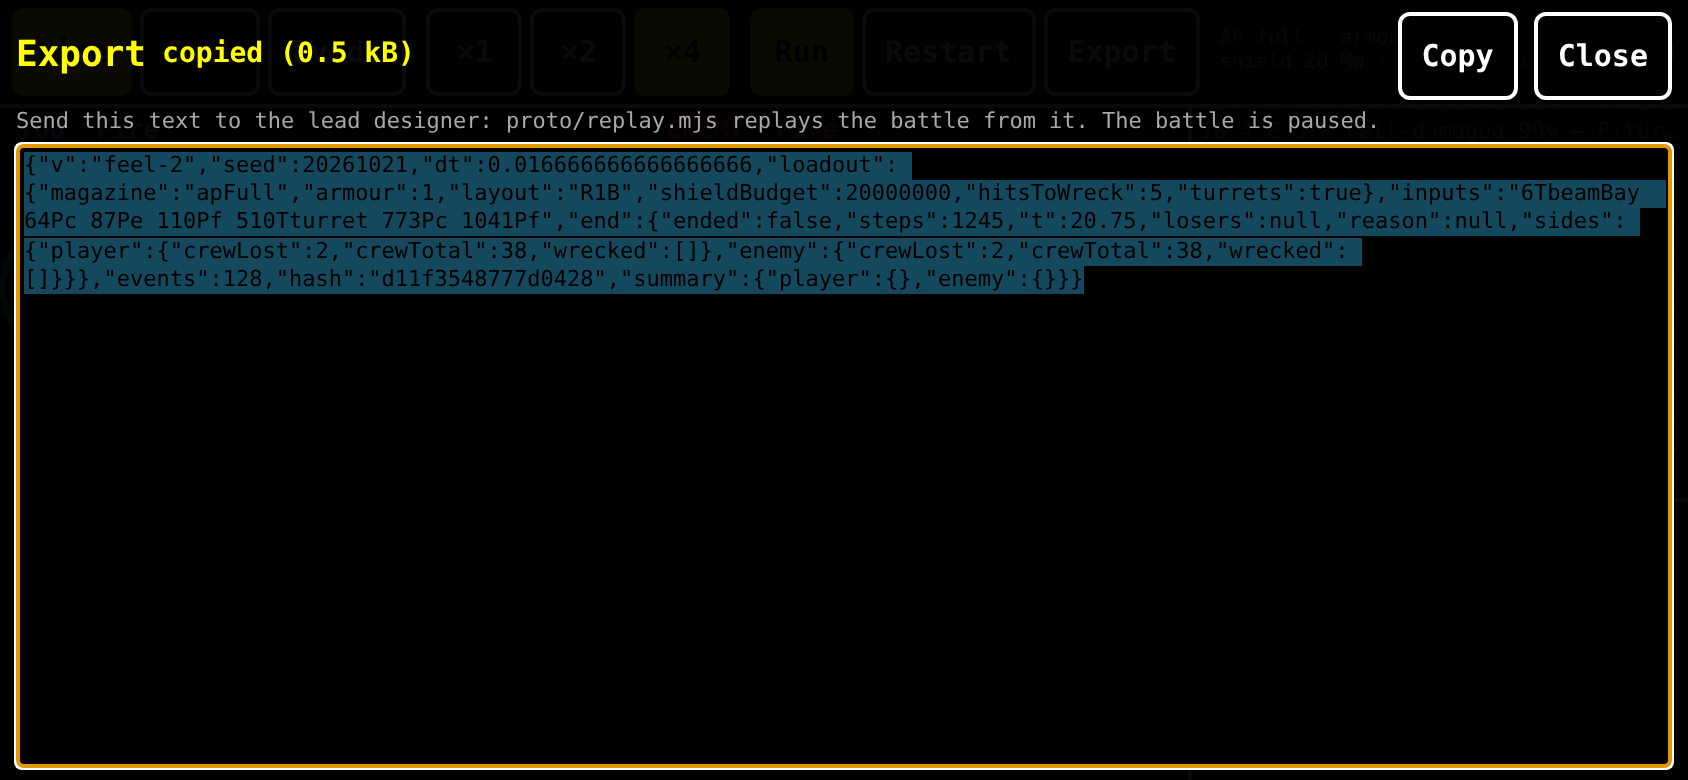
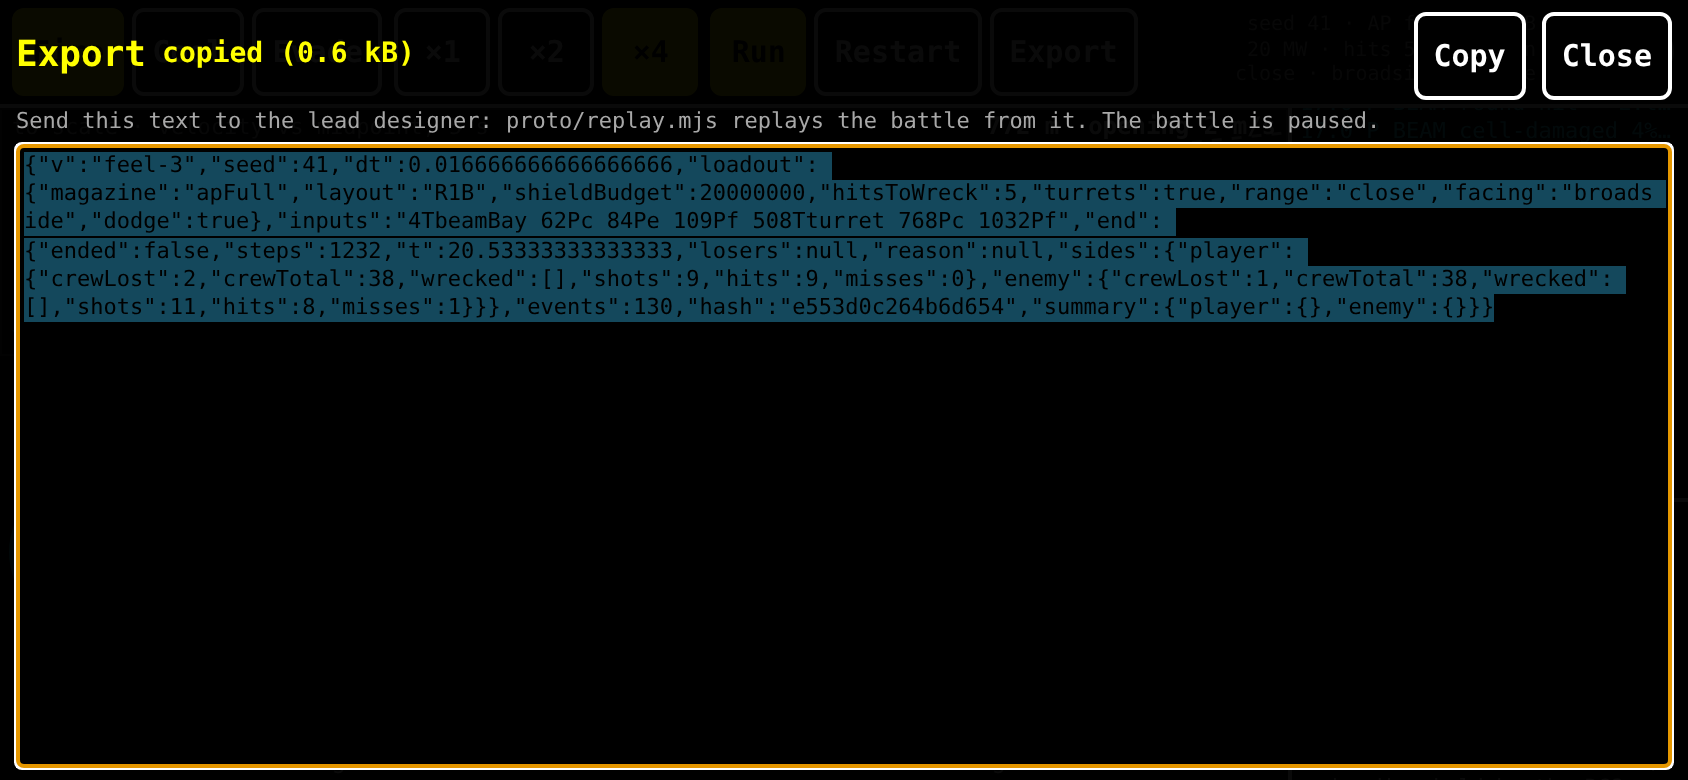
Export, replay and smoke-test prototype v2; rewrite its README
DESIGN.md 13j.2 (#237): an export must name the seed and the player's
orders so replay.mjs rebuilds the same battle; the smoke test now checks
the seed on the panel, in the battle and in both exports, seed + 1 after
Restart, and that both exports replay MATCH from a Chromium page.

Claude-Session: https://claude.ai/code/session_013XH7jici9kFqQf6EJYqURu

Changed region(s): [[0.0, 0.1846, 0.9858, 0.4308], [0.8318, 0.0, 0.9858, 0.1231]]

diff --git a/proto/export.js b/proto/export.js
@@ -1,6 +1,7 @@
-// proto/export.js — the feel prototype's export (DESIGN.md 13h, #217, #224):
-// one compact JSON text of a battle (version, seed, loadout, the player's
-// inputs by step, the end, the event hash and a short per-room summary), so
+// proto/export.js — the feel prototype's export (DESIGN.md 13h, 13j, #217,
+// #224, #237): one compact JSON text of a battle (version, seed, loadout with
+// the player's standing orders, the player's inputs by step, the end, the
+// event hash and a short per-room summary), so
 // that proto/replay.mjs can rebuild the battle headless from seed, loadout
 // and inputs and check it ends the same. No DOM: the page (proto/proto.js)
 // and Node (proto/replay.mjs) both use it. The full event list is not
@@ -30,7 +31,7 @@ export function record(rec, events) {
     }
     rec.h1 = Math.imul(h1 ^ 10, 2654435761); rec.h2 = Math.imul(h2 ^ 10, 1597334677);
     rec.count++;
-    if (e.room === 'armour' || !(e.side in rec.rooms)) continue;
+    if (e.room === '-' || !(e.side in rec.rooms)) continue; // a miss names no room
     const r = rec.rooms[e.side][e.room] || (rec.rooms[e.side][e.room] = { hot: null, overheated: null, wrecked: null });
     if (e.type === 'hot' && r.hot === null) r.hot = e.t;
     if (e.type === 'overheated' && r.overheated === null) r.overheated = e.t;
@@ -46,9 +47,9 @@ export function eventHash(rec) {
   return (h2 >>> 0).toString(16).padStart(8, '0') + (h1 >>> 0).toString(16).padStart(8, '0');
 }
 
-/** Where the battle stands: its end if it ended, else the step it was exported at; crew lost and rooms wrecked per side. */
+/** Where the battle stands: its end if it ended, else the step it was exported at; crew lost, rooms wrecked, shots, hits and misses per side. */
 export function endOf(battle) {
-  const e = battle.ended, side = (s) => { const x = summary(s); return { crewLost: x.crewLost, crewTotal: x.crewTotal, wrecked: x.wrecked }; };
+  const e = battle.ended, side = (s) => { const x = summary(s); return { crewLost: x.crewLost, crewTotal: x.crewTotal, wrecked: x.wrecked, shots: x.shots, hits: x.hits, misses: x.misses }; };
   return {
     ended: !!e, steps: battle.steps, t: battle.t,
     losers: e ? e.losers : null, reason: e ? e.reason : null,

diff --git a/proto/README.md b/proto/README.md
@@ -1,10 +1,12 @@
-# Feel prototype (throwaway)
+# Feel prototype v2 (throwaway)
 
 A rough page to judge how a battle feels on the phone (`DESIGN.md` §13h,
-decisions #217, #223, #224): two reference ships R1 (§13f.2, at the mass
-pass's masses, #221) 900 m apart on the unchanged L3 kernel. It only reads
-and drives the kernel through its exported functions, adds no game number
-outside `js/data.js`, and **never counts as a Mission 0 result**.
+§13j; decisions #217, #224, #233, #237): two reference ships R1 (§13f.2)
+on the path model's kernel (§13i), flown by a stand-in autopilot from three
+standing orders (§8: range, facing, dodge), with rounds that hit or miss for
+physical reasons only. It only reads and drives the kernel through its
+exported functions, adds no game number outside `js/data.js`, and **never
+counts as a Mission 0 result**.
 
 ## Run it
 
@@ -23,148 +25,194 @@ the page elsewhere, copy `js/` beside `proto/` or rewrite that one prefix.
 
 ## Loadout panel
 
-Shown before each battle and from **Restart**; one loadout applies to
-**both ships alike**; the current loadout stays in the top-right corner
-during the battle. **Defaults** gives the battle without the panel (the
-same event hash for the same seed). The levers (#223's ladder: constants
-within their approved ranges, then layout and combinations of existing
-physics):
+Shown before each battle and from **Restart**; the current loadout stays in
+the top-right corner during the battle. **Defaults** resets every lever.
+
+The **fit** applies to both ships alike (#223's ladder: constants within
+their approved ranges, then layout and combinations of existing physics):
 
 - **Magazine**: HE full (default), AP full, HE half, AP quarter, by mass
   (fractions of `magazine.capacity`), loaded as whole rounds by the
   kernel's `loadMagazine`. A magazine explodes when a cell of it is
   wrecked, with the charge energy of its rounds, plus the warhead for HE.
-- **Bow armour**: none, 1 or 2 armour cells in front of each bow-facing
-  row. A `STAND-IN` (stand-in 7 below): armour fittings (#15) are not built
-  in the kernel.
 - **Layout**: R1 (§13f.2) or **R1-B**: the hold moved to [9,11)×[2,4) and
   the beam bay to [11,13)×[2,4), so the hold stands between the beam bay
-  and the magazine; 17 radiators (the beam bay's on its free edges) and the
-  same 4 RCS. Both layouts pass the kernel's `validateShip` every time a
-  ship is built.
+  and the magazine. Both pass the kernel's `validateShip` at every build.
 - **Shield budget**: 10 MW (default, `js/data.js`), 5 or 20 MW: a run-time
   override of `shield.budget` (approved 2–40 MW).
 - **Hits to wreck**: 3 (default) or 5: a run-time override of
   `kinetic.hitsToWreck` (approved 1–8).
 - **Turrets**: on, or off (both turrets hold: the beam-only probe).
 
-`battle.js` refuses an override outside its constant's approved range.
+The **orders** are yours (the enemy keeps its script's):
+
+- **Range order**: hold 900 (default), close 600, open 1500 m, centre of
+  mass to centre of mass (#54's band).
+- **Facing order**: bow-on (default) or broadside.
+- **Dodge order**: off (default) or on.
+
+The **seed** (first battle: 1) times each ship's dodge through the seeded
+RNG of `js/util.js`. It is shown on the panel and in the battle's corner;
+Restart adds 1; type another to replay a battle. `battle.js` refuses an
+override outside its constant's approved range. `PROTO_VERSION` is
+`feel-3`.
 
 ## Play
 
-- **Tap an enemy room** to target it (yellow dashed outline). Your beam and
-  turret fire at it while the preset says so. A wrecked target is dropped.
-- **Fire**: beam and turret on the target, shield on, engine half.
-  **Cool**: weapons off, shield off, engine off. **Evade**: engine full, RCS
-  turning, weapons hold (the shield stays on: §13h.2 does not say).
-- **×1 ×2 ×4**: time. **Pause**, **Restart** (back to the loadout panel).
+- **Tap an enemy room** to target it (yellow dashed outline). Your turret
+  aims at it and your beam fires while the preset says so. A wrecked target
+  is dropped.
+- **Fire**: weapons on the target, shield on, your standing orders as set,
+  engine up to 50 %. **Cool**: weapons off, shield off, engine off: the
+  ship coasts, the RCS holds the facing order's heading, no dodging.
+  **Evade**: weapons hold, shield on, broadside and dodge, engine up to
+  100 %. The range order still comes first in Evade (#40).
+- **×1 ×2 ×4**: time. **Pause**, **Restart** (back to the loadout panel,
+  seed + 1).
 - The enemy runs a fixed script: Fire 60 s, Cool 30 s, repeat; it aims at
-  your beam bay, then your turret, then your engine, each until wrecked.
+  your beam bay, then your turret, then your engine, each until wrecked;
+  its orders are hold 900 m, bow-on, dodge on.
 - The battle ends when a ship is Disabled (no weapon able to fire and no
   thrust for 10 s, #82) or destroyed (its reactor or magazine explodes), and
   shows the time, crew lost and rooms wrecked.
 
-## Export and replay
+### What the physics does with the orders (no new constant)
 
-- **Export** (top bar during a battle, and on the end panel) pauses the
-  battle and builds one line of JSON: the version (`PROTO_VERSION` in
-  `config.js`; there is no build step to stamp a git hash), the seed, the
-  loadout, every input of the player with its step number, where the battle
-  stands (ended or not, step, time, losers and reason, crew lost and rooms
-  wrecked per side), the number of events and their hash, and a per-room
-  summary ([first hot, first overheated, wrecked] in s, rooms that got hot
-  or worse). It copies the text to the clipboard and says "copied"; if the
-  phone refuses, it says so and the text stays selected in a box to copy by
-  hand. **Close** resumes. Inputs are tokens such as `5400Pc 5460TbeamBay`
-  (Cool at step 5400, then target the beam bay); about 10 kB for a
-  15-minute battle with one input every second.
-- `node proto/replay.mjs <file.json> [--every S] [--quiet]` rebuilds the
-  battle headless from the seed, loadout and inputs, runs it to the
-  exported step, prints the full event log (time, side, room, type, cause,
-  crew and the event's other fields; the player's inputs inline) and each
-  room's temperature peak, then compares the end and the event hash with
-  the export: **MATCH** (exit 0) or **MISMATCH** (exit 1). `--every 1`
-  also prints each room's temperature and integrity and each shield's state
-  once per simulated second. Text around the JSON (a pasted message) is
-  ignored.
-- The hash folds every event's JSON, after every tick, in the order the
-  battle emits them; it is not `measure.mjs`'s SHA-256. Bump
-  `PROTO_VERSION` whenever `proto/` or `js/` changes what a battle does:
-  replay warns when the export's version differs from the checkout's.
+- **Facing**: the beam bay is spinal (#234): the beam leaves along the
+  ship's axis from the bay's bow face and hits whatever that line crosses on
+  the enemy, possibly nothing (a miss). Only a bow-on ship beams its target.
+  The engine pushes along the axis, so broadside the ship dodges with the
+  engine (1.8 g at full thrust); bow-on only the RCS pushes sideways (two
+  1 MN fittings on 850 t: 2.35 m/s², 0.24 g).
+- **Rounds**: a kernel `shot` launches a round at the shooter's velocity
+  plus 800 m/s along the turret's aim; the turret aims at the lead point
+  (the target room extrapolated at its ship's velocity over the time of
+  flight). Each step the round's segment is tested against the target's
+  hull cells. A hit: the kernel's `shieldRound` slows it at the hull entry
+  point and its `fireRound` resolves it along the cells the line crosses
+  from entry to exit (holes stay on the path). A round that crosses nothing
+  flies on and is a miss once 3 km from the midpoint between the ships. No
+  dispersion: misses come from acceleration during the time of flight
+  (the lead knows velocity only).
+- **Beam**: the kernel's shield takes it at the hull entry point
+  (`setBeams`); what passes goes along the crossed cells with the kernel's
+  `fireBeam` (Bethe deposit, the bay's `beamEnergy`, no falloff).
 
 ## Read the view
 
-- Each room's colour is its temperature against its own thresholds: dark
-  blue at rest, green toward hot, yellow at hot, red at overheated, white
-  toward critical. A darker cell has lost integrity (thin red frame); a
-  destroyed cell is black with a red cross. `!` after a label: shut down.
-  A grey outline: the room has lost control. A magenta bar along a cell's
-  bottom: the beam's burn so far.
-- The cyan oval is the shield; brighter is a larger budget. Below each ship:
-  whether the beam, the gun and the engine are able, crew aboard, reactor
+- **World strip** (top): both ships to scale, the line of sight from you to
+  the enemy pointing right; every hull cell on its body (red outline: a
+  hole); a yellow line from each centre of mass shows its velocity against
+  the midpoint's as 5 s of travel; a white tick marks each bow. Rounds in
+  flight are white dots with a tail. A beam is magenta where it passes the
+  shield, cyan where the shield takes it all, grey dashes where it misses.
+  Top right: the range and how fast it opens or closes; bottom: each side's
+  hits, misses and rounds in flight.
+- **Head-up grids** (as v1; the enemy's is tappable): each room's colour is
+  its temperature against its own thresholds (dark blue at rest, green
+  toward hot, yellow at hot, red at overheated, white toward critical); a
+  darker cell has lost integrity (thin red frame); a destroyed cell is
+  black with a red cross; `!` after a label: shut down; a grey outline: the
+  room has lost control. The cyan oval is the shield. A white arrow shows
+  where a round entered in the last 1.5 s, with the cells it reached framed;
+  the beam is drawn where it enters (and to the deepest cell it reached when
+  it passes the shield); "beam: miss" when its line crosses nothing.
+- Above each grid: preset, target, the autopilot's mode and the engine's
+  throttle. Below: whether beam, gun and engine are able, crew, reactor
   output, shield and what it absorbs; a red countdown while Disabled looms.
-- Rounds are white dashes; a white frame flashes along the row a round went
-  down. A beam is a magenta line while it passes the shield, cyan while the
-  shield takes all of it.
-- The log (right) lists the kernel's events: time, side (P you, E enemy),
-  room, event, cause, crew aboard after it. Shots are drawn, not logged.
+- The log (right) lists the kernel's events and the prototype's
+  `round-hit` and `round-missed`: time, side (P you, E enemy), room, event,
+  cause, crew aboard after it. Shots are drawn, not logged.
 
 ## Stand-ins (also on screen)
 
 Each is marked `STAND-IN` in the code.
 
-1. Rounds fly straight at the muzzle velocity (`kinetic.muzzleVelocity`)
-   from gun to the aimed room: no aiming error, no lead, no deflection. On
-   arrival the kernel's `shieldRound` slows them at the aimed room and its
-   `fireRound` resolves them along one grid row of the aimed room, entering
-   from the bow (the side facing the shooter); the row is picked by the
-   seeded RNG (`js/util.js`), since the room's centre lies on a cell line.
-2. Beams: the kernel's shield takes the beam at the aimed room
-   (`setBeams`); what passes, times the Gaussian fraction that lands on one
-   cell at 900 m (`beamDeliveredFraction`), heats the aimed room and burns
-   its cells one by one, the ones facing the shooter first. A cell burns
-   through at `armour.burnEnergy` (L0's rule; `data.js` has no room value).
-3. Both sides see the true layout: no scans.
-4. No point defence, no missiles, no railgun.
-5. No helm: both ships are held at their stations for aiming and drawing.
-   Engines and RCS still draw power and make heat in the kernel; the motion
-   the kernel integrates is not shown or used.
-6. Disabled is judged from room state (working, controlled, a reactor able
-   to power it, the gun fed); destroyed means a reactor or magazine
-   explosion.
-7. Bow armour (loadout): N armour cells stand in front of each bow-facing
-   row, beyond the row's foremost room cell (grey cells in the view). A
-   round arriving in that row, after the shield, first passes them by L0's
-   rule (the kernel's `penetrate`, `armour.kineticResistance` per cell; a
-   wrecked armour cell is a hole) and enters the row with the sectional
-   momentum left. A beam burning a cell of the aimed room first burns that
-   row's armour cells (`armour.burnEnergy` each); that energy stays in the
-   armour and does not heat the room. Armour cells are wrecked like room
-   cells: 1 / `kinetic.hitsToWreck` per round passing, (absorbed / R) /
-   `hitsToWreck` for the cell a round stops in. Their mass and heat are
-   ignored (ships are held at station, stand-in 5).
+1. **Autopilot** (for L4's `helm.js`): the three orders in #40's order.
+   Range first: out of a 100 m dead band, or drifting faster than 50 m/s off
+   the wanted relative velocity, the ship flies a wanted closing speed
+   (0.05 /s × the range error, at most 40 m/s) with no drift across the line
+   of sight, thrusting along the velocity error once within 10° of it.
+   Facing next: bow-on points the bow at the enemy, broadside puts the line
+   of sight across the axis. Dodge last: the sign of the thrust across the
+   line of sight flips every 6–14 s (seeded); broadside that is a turn to the
+   other broadside, bow-on the RCS pair on one side. The RCS holds and turns
+   the heading: a time-optimal turn rate on 70 % of the couple's angular
+   acceleration, the torque it needs less the thrust torque, met each step
+   by the subset of able fittings closest to it. Every gain is in
+   `config.js` (`AUTOPILOT`), commented PROTOTYPE SETTING, NOT A GAME
+   NUMBER.
+2. **Presets' throttles**: Fire up to 50 %, Cool 0, Evade 100 %.
+3. **Enemy script**: Fire 60 s, Cool 30 s; beam bay, turret, engine; hold
+   900, bow-on, dodge on.
+4. **Turret**: free aim in any direction (no traverse arc, no slew, no
+   dispersion); its rounds never hit their own ship.
+5. A cell the line clips at a corner counts as crossed whole (the chord rule
+   waits for the next kernel pass).
+6. Both sides see the true layout: no scans.
+7. No point defence, no missiles, no railgun.
+8. A round's impact momentum is not given to the ship it hits (the kernel
+   has no call for it).
+9. Disabled is judged from room state (working, controlled, a reactor able
+   to power it, the gun fed), 10 s (`config.js`); destroyed means a reactor
+   or magazine explosion.
+10. **Deterministic trigonometry** (`detmath.js`): `Math.sin` and
+    `Math.cos` differ in their last bit between Node's V8 and a browser's
+    (Chromium 141: about 3 % of arguments), and the kernel turns ships with
+    them, so `battle.js` installs a port of fdlibm's sin and cos (within one
+    unit in the last place of the native ones) before any battle runs: the
+    same battle on the phone and in Node, so a phone export replays MATCH.
+
+## Export and replay
+
+- **Export** (top bar during a battle, and on the end panel) pauses the
+  battle and builds one line of JSON: the version (`PROTO_VERSION`), the
+  seed, the loadout (fit and your orders), every input of the player with
+  its step number, where the battle stands (ended or not, step, time,
+  losers and reason, crew lost, rooms wrecked, shots, hits and misses per
+  side), the number of events and their hash, and a per-room summary
+  ([first hot, first overheated, wrecked] in s). It copies the text to the
+  clipboard and says "copied"; if the phone refuses, it says so and the text
+  stays selected in a box to copy by hand. **Close** resumes. Inputs are
+  tokens such as `5400Pc 5460TbeamBay` (Cool at step 5400, then target the
+  beam bay).
+- `node proto/replay.mjs <file.json> [--every S] [--quiet]` rebuilds the
+  battle headless from the seed, loadout and inputs, runs it to the
+  exported step, prints the full event log and each room's temperature
+  peak, then compares the end and the event hash with the export: **MATCH**
+  (exit 0) or **MISMATCH** (exit 1). `--every 1` also prints each room's
+  temperature and integrity, each shield's state and the helm (mode, range,
+  throttle, heading) once per simulated second. Text around the JSON is
+  ignored.
+- The hash folds every event's JSON, after every tick, in the order the
+  battle emits them. Bump `PROTO_VERSION` whenever `proto/` or `js/` changes
+  what a battle does: replay warns when the export's version differs.
 
 ## Tools
 
-- `node proto/measure.mjs [--seeds N] [--limit s] [--magazine heFull|apFull|heHalf|apQuarter]
-  [--armour 0|1|2] [--layout R1|R1B] [--shield-budget W] [--hits N] [--turrets on|off]`:
-  battles headless with both sides on the enemy's script and one loadout;
-  prints per seed the length, the end, what destroyed a ship, the first
-  room to fail on each side, the event hash and the cost per step, then a
-  summary. `--beam-only` is `--turrets off`.
+- `node proto/measure.mjs [--seeds N] [--first S] [--range close|hold|open]
+  [--facing bow|broadside] [--limit s] [--magazine ...] [--layout R1|R1B]
+  [--shield-budget W] [--hits N] [--turrets on|off]`: duels headless with
+  both ships on the enemy's script (by default seeds 1–10 at each range
+  order, on both ships); prints a table per duel (length, end, each side's
+  shots / hits / misses, what destroyed a ship, the cost per step) and a
+  summary per range. `--facing broadside` replaces the script's bow-on on
+  both ships.
 - `NODE_PATH=/opt/node-tools/node_modules node proto/smoke.mjs`: Playwright
-  at 844 × 390 with touch; chooses a non-default loadout (AP full, armour 1,
-  R1-B, shield 20 MW, hits 5) and starts, taps a target, cycles the presets,
-  runs ×4 to the end or 6 simulated minutes (on the way: target the turret
-  at 8 s, Cool at 12 s, Fire at 16 s, Export from the top bar at 20 s),
-  exports again at the end, runs `replay.mjs` on both exports (each must
-  print MATCH), checks Restart brings the panel back; fails on any console
-  error, a visible button under 44 px or a MISMATCH; writes
-  `proto/screens/loadout.png`, `start.png`, `export.png` and `end.png`.
+  at 844 × 390 with touch; checks the panel shows seed 1, chooses a
+  non-default loadout (AP full, R1-B, 20 MW, hits 5, close 600, broadside,
+  dodge on) and seed 41 and starts, checks the seed in the battle's corner,
+  taps a target, cycles the presets, runs ×4 to the end or 6 simulated
+  minutes (target the turret at 8 s, Cool at 12 s, Fire at 16 s, Export from
+  the top bar at 20 s), exports again at the end, runs `replay.mjs` on both
+  exports (each must print MATCH and carry seed 41), checks Restart brings
+  the panel back with seed 42; fails on any console error, a visible button
+  under 44 px or a MISMATCH; writes `proto/screens/loadout.png`,
+  `start.png`, `export.png`, `end.png` and `restart.png`.
 
 ## Files
 
-`index.html`, `proto.css`, `proto.js` (the page), `battle.js` (the battle,
-no DOM), `export.js` (the export and its event hash, no DOM), `config.js`
-(every prototype setting), `measure.mjs`, `replay.mjs`, `smoke.mjs`,
-`screens/`.
+`index.html`, `proto.css`, `proto.js` (the page), `battle.js` (the battle
+and the autopilot, no DOM), `detmath.js` (the trigonometry stand-in),
+`export.js` (the export and its event hash, no DOM), `config.js` (every
+prototype setting), `measure.mjs`, `replay.mjs`, `smoke.mjs`, `screens/`.

diff --git a/CHANGELOG.md b/CHANGELOG.md
@@ -39,6 +39,11 @@
   the range, facing and dodge orders and the seed (shown, +1 at every
   Restart, editable, in the battle's corner and the export); the stand-ins
   list names the enemy's script and every preset's throttle (#233).
+- Export and replay as v1 with the seed and the orders (and each side's
+  shots, hits and misses in the end); `replay.mjs --every` prints the helm;
+  `smoke.mjs` checks the seed on the panel, in the battle and in both
+  exports, and seed + 1 after Restart; `proto/README.md` rewritten (run,
+  loadout, play, the physics of the orders, the view, stand-ins, measure).
 
 ## 0.7.2 — 2026-10-21 — Prototype v2 planned (#237)
 
